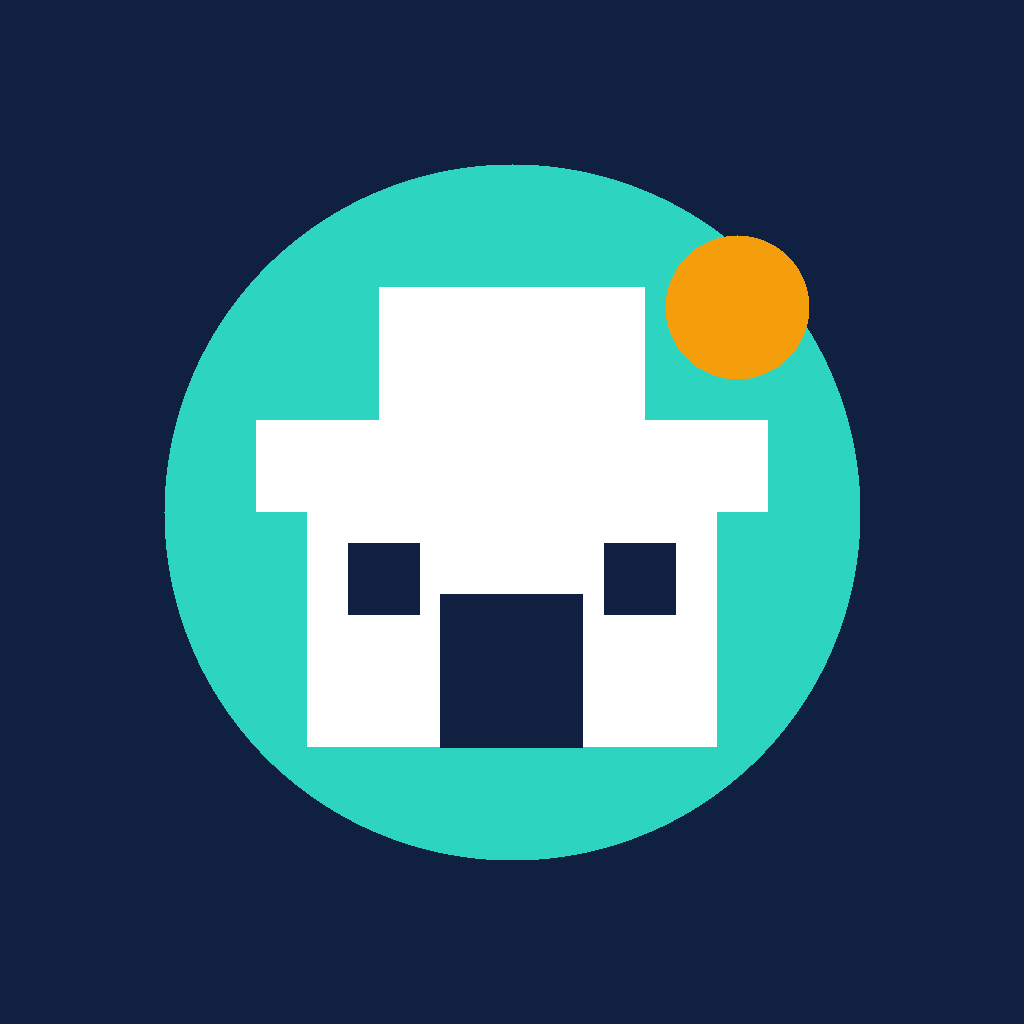
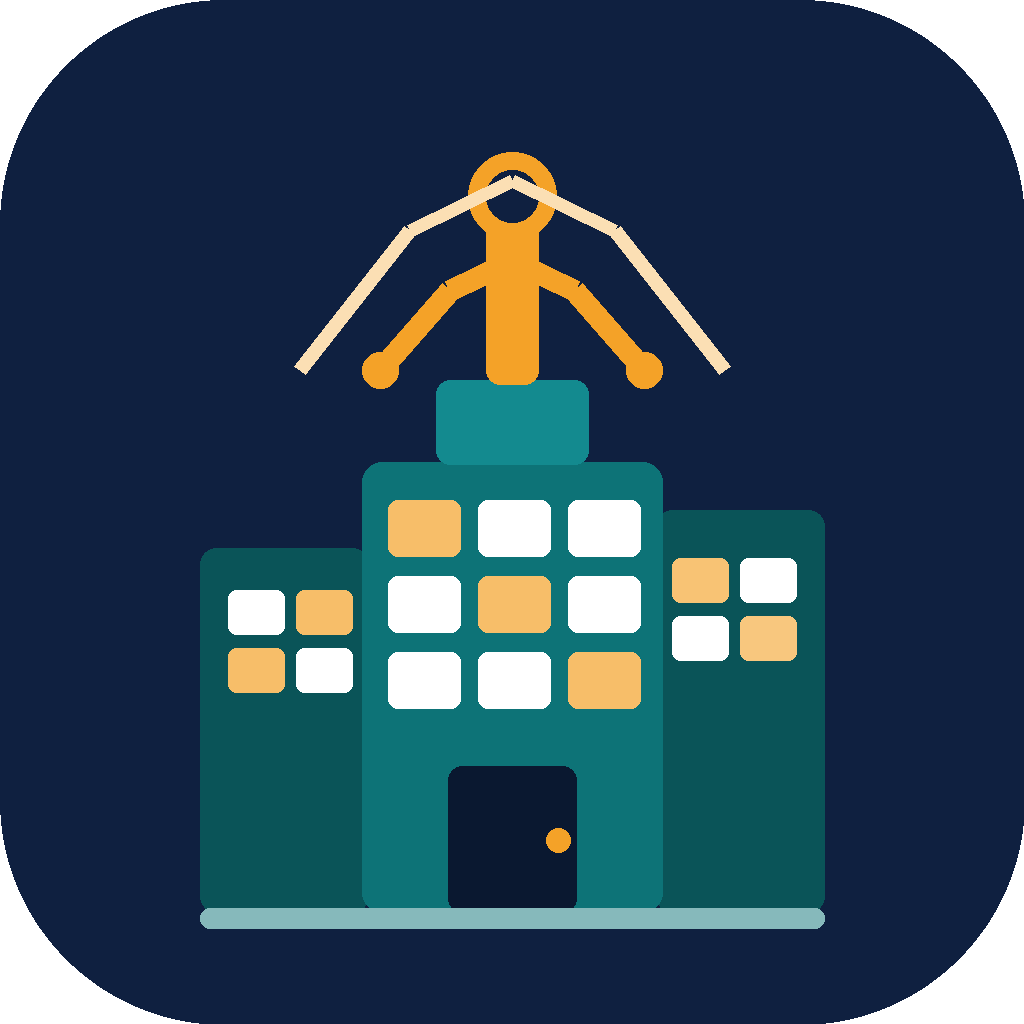
beta publish point 1

diff --git a/src/components/ui/AppLogo.jsx b/src/components/ui/AppLogo.jsx
@@ -1,0 +1,65 @@
+/**
+ * components/ui/AppLogo.jsx
+ *
+ * Reusable logo component used on:
+ *  - LoginScreen
+ *  - RegisterScreen
+ *  - LoadingScreen (RootNavigator)
+ *
+ * Props:
+ *   size     'sm' | 'md' | 'lg'   — controls icon + text size
+ *   dark     boolean               — false = light text (for navy bg), true = navy text (for light bg)
+ *   tagline  boolean               — show "Society Operations" subtitle
+ */
+import { View, Text, Image, StyleSheet } from "react-native";
+import { C } from "../../constants/theme";
+
+const SIZES = {
+  sm: { icon: 48,  name: 20, sub: 10, gap: 8  },
+  md: { icon: 72,  name: 28, sub: 11, gap: 12 },
+  lg: { icon: 96,  name: 36, sub: 12, gap: 16 },
+};
+
+export const AppLogo = ({ size = "md", dark = false, tagline = false, style }) => {
+  const sz = SIZES[size];
+  const nameColor  = dark ? C.navy  : "#FFFFFF";
+  const accentColor = C.teal;
+  const subColor   = dark ? C.gray500 : "rgba(255,255,255,0.55)";
+
+  return (
+    <View style={[s.wrap, style]}>
+      {/* Icon tile */}
+      <Image
+        source={require("../../../assets/icon.png")}
+        style={[s.icon, { width: sz.icon, height: sz.icon, borderRadius: sz.icon * 0.22 }]}
+        resizeMode="cover"
+      />
+
+      {/* Wordmark row */}
+      <View style={[s.textWrap, { marginTop: sz.gap }]}>
+        <Text style={[s.my, { fontSize: sz.name, color: accentColor }]}>my</Text>
+        <Text style={[s.society, { fontSize: sz.name, color: nameColor }]}>Society</Text>
+      </View>
+
+      {/* Amber accent bar */}
+      <View style={[s.bar, { width: sz.icon * 1.4 }]} />
+
+      {/* Optional tagline */}
+      {tagline && (
+        <Text style={[s.tagline, { fontSize: sz.sub, color: subColor }]}>
+          SOCIETY OPERATIONS
+        </Text>
+      )}
+    </View>
+  );
+};
+
+const s = StyleSheet.create({
+  wrap:     { alignItems: "center" },
+  icon:     { },
+  textWrap: { flexDirection: "row", alignItems: "baseline" },
+  my:       { fontWeight: "400", letterSpacing: 0.3 },
+  society:  { fontWeight: "700", letterSpacing: 0.3 },
+  bar:      { height: 3, borderRadius: 2, backgroundColor: "#F4A228", marginTop: 6, marginBottom: 4 },
+  tagline:  { letterSpacing: 3, marginTop: 2 },
+});

diff --git a/src/navigation/RootNavigator.jsx b/src/navigation/RootNavigator.jsx
@@ -15,6 +15,7 @@ import { AuthStack }        from "./AuthStack";
 import { AppTabs }          from "./AppTabs";
 import SALoginScreen        from "../screens/sa/SALoginScreen";
 import SASuperAdminApp      from "../screens/sa/SASuperAdminApp";
+import { AppLogo }          from "../components/ui/AppLogo";
 
 const NavTheme = {
   ...DefaultTheme,
@@ -24,9 +25,8 @@ const NavTheme = {
 // ─── Loading screen ───────────────────────────────────────────────────────────
 const LoadingScreen = () => (
   <View style={styles.center}>
-    <Text style={styles.logo}>🏘</Text>
-    <Text style={styles.appName}>SocietyApp</Text>
-    <ActivityIndicator color={C.teal} style={{ marginTop: 24 }} />
+    <AppLogo size="lg" dark={false} tagline />
+    <ActivityIndicator color={C.teal} style={{ marginTop: 32 }} />
   </View>
 );
 
@@ -109,8 +109,6 @@ export const RootNavigator = () => {
 
 const styles = StyleSheet.create({
   center:       { flex: 1, alignItems: "center", justifyContent: "center", backgroundColor: C.navy },
-  logo:         { fontSize: 60, marginBottom: 12 },
-  appName:      { fontSize: 26, fontWeight: "800", color: "#fff" },
   pendingTitle: { fontSize: 22, fontWeight: "800", color: C.navy, marginBottom: 12, textAlign: "center" },
   pendingBody:  { fontSize: 14, color: C.gray500, textAlign: "center", lineHeight: 22, marginBottom: 20 },
   pendingTip:   { backgroundColor: "#FEF3C7", borderRadius: 12, padding: 14, marginBottom: 28, width: "100%" },

diff --git a/src/screens/auth/LoginScreen.jsx b/src/screens/auth/LoginScreen.jsx
@@ -14,6 +14,7 @@ import { useAuth }      from "../../context/AuthContext";
 import { useLanguage }  from "../../context/LanguageContext";
 import { useToast }     from "../../context/ToastContext";
 import { Input, Btn }   from "../../components/ui";
+import { AppLogo }      from "../../components/ui/AppLogo";
 import { C }            from "../../constants/theme";
 
 export const LoginScreen = ({ navigation }) => {
@@ -64,10 +65,7 @@ export const LoginScreen = ({ navigation }) => {
           showsVerticalScrollIndicator={false}
         >
           {/* Logo */}
-          <View style={styles.logoWrap}>
-            <Text style={styles.logoEmoji}>🏘</Text>
-            <Text style={styles.appName}>{t("app_name")}</Text>
-          </View>
+          <AppLogo size="md" dark={false} tagline style={{ marginBottom: 32 }} />
 
           {/* Card */}
           <View style={styles.card}>
@@ -145,9 +143,7 @@ const styles = StyleSheet.create({
   safe:       { flex: 1, backgroundColor: C.navy },
   kav:        { flex: 1 },
   scroll:     { flexGrow: 1, justifyContent: "center", padding: 24 },
-  logoWrap:   { alignItems: "center", marginBottom: 32 },
-  logoEmoji:  { fontSize: 52, marginBottom: 8 },
-  appName:    { fontSize: 24, fontWeight: "800", color: "#fff" },
+  
   card:       { backgroundColor: "#fff", borderRadius: 20, padding: 24 },
   title:      { fontSize: 20, fontWeight: "800", color: C.navy, marginBottom: 4 },
   subtitle:   { fontSize: 13, color: C.gray500, marginBottom: 22 },

diff --git a/src/screens/auth/RegisterScreen.jsx b/src/screens/auth/RegisterScreen.jsx
@@ -2,7 +2,7 @@
  * screens/auth/RegisterScreen.jsx
  * Fully functional register screen.
  *
- * Deep link: societyapp://join/CODE → RegisterScreen with joinCode pre-filled.
+ * Deep link: mysociety://join/CODE → RegisterScreen with joinCode pre-filled.
  * Calls: POST /auth/register via AuthContext.register()
  */
 import { useState } from "react";
@@ -16,6 +16,7 @@ import { useAuth }      from "../../context/AuthContext";
 import { useLanguage }  from "../../context/LanguageContext";
 import { useToast }     from "../../context/ToastContext";
 import { Input, Btn }   from "../../components/ui";
+import { AppLogo }      from "../../components/ui/AppLogo";
 import { C }            from "../../constants/theme";
 
 export const RegisterScreen = ({ navigation, route }) => {
@@ -99,6 +100,7 @@ export const RegisterScreen = ({ navigation, route }) => {
             <Text style={styles.backText}>← {t("btn_back")}</Text>
           </TouchableOpacity>
 
+          <AppLogo size="sm" dark style={{ marginBottom: 16, marginTop: 8 }} />
           <Text style={styles.title}>{t("reg_title")}</Text>
           <Text style={styles.subtitle}>{t("reg_subtitle")}</Text>
 
